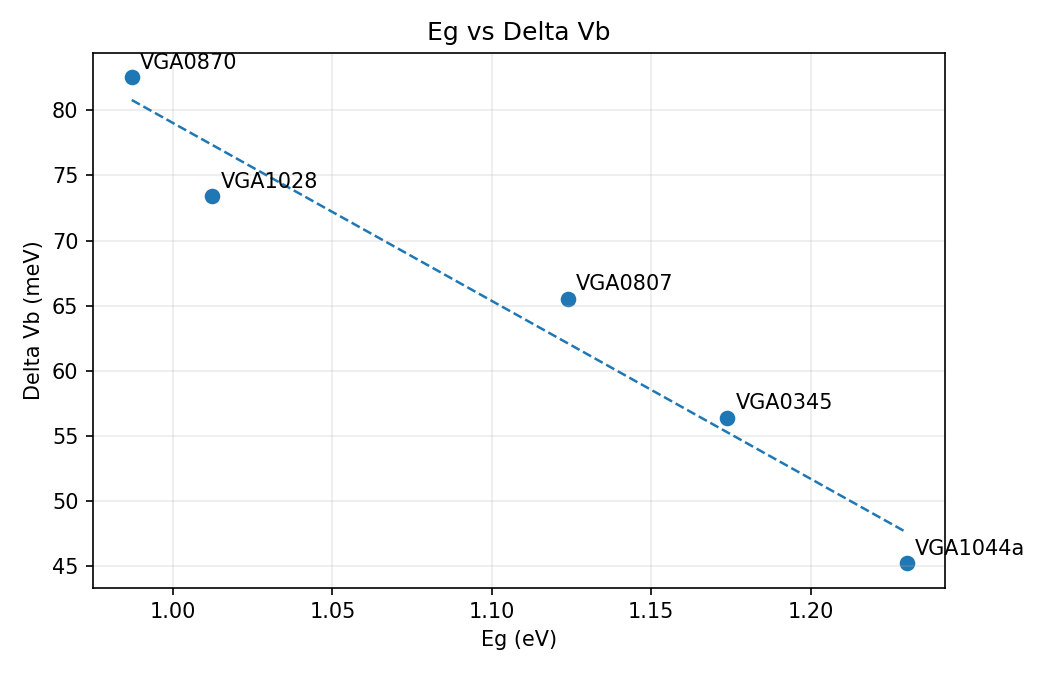
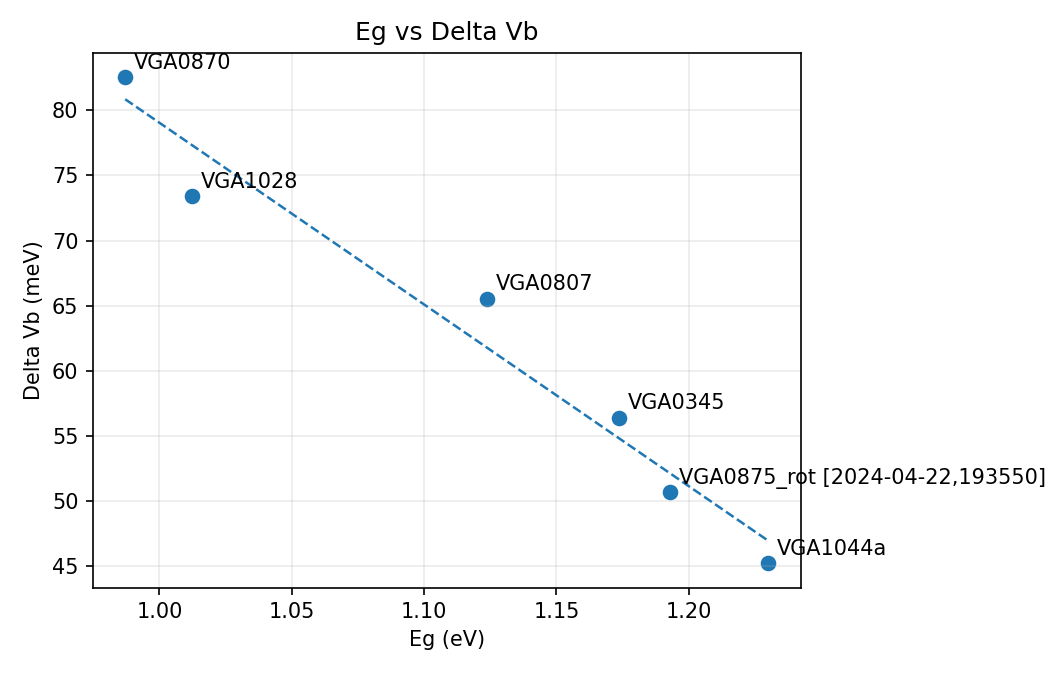
Update GaAsBi results database

diff --git a/README.md b/README.md
@@ -68,7 +68,7 @@ measurement files, unless there is a deliberate reason to share them.
 <!-- comparison-plots:start -->
 ## Current Comparison Plots
 
-Records in database: `5`
+Records in database: `6`
 
 These plots are regenerated by the app from `selected_results.jsonl`.
 